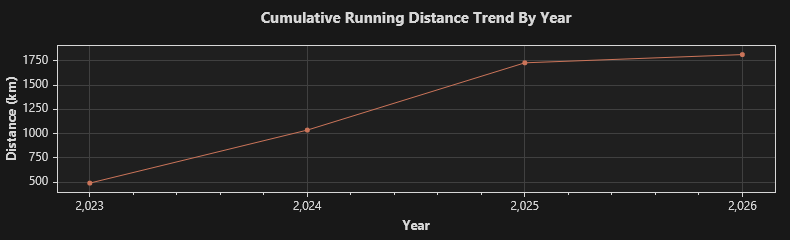
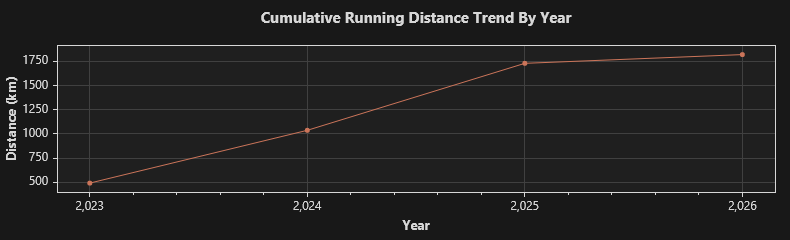
2026/2/24 跑步 5.62 公里

diff --git a/trend.md b/trend.md
@@ -1,4 +1,4 @@
-### Total: 309 days, 1813.53 km.
+### Total: 310 days, 1819.15 km.
 
 
 ![Monthly](https://github.com/prime167/MyRunningLog/blob/main/data/CumulativeTrendByMonth.png)
